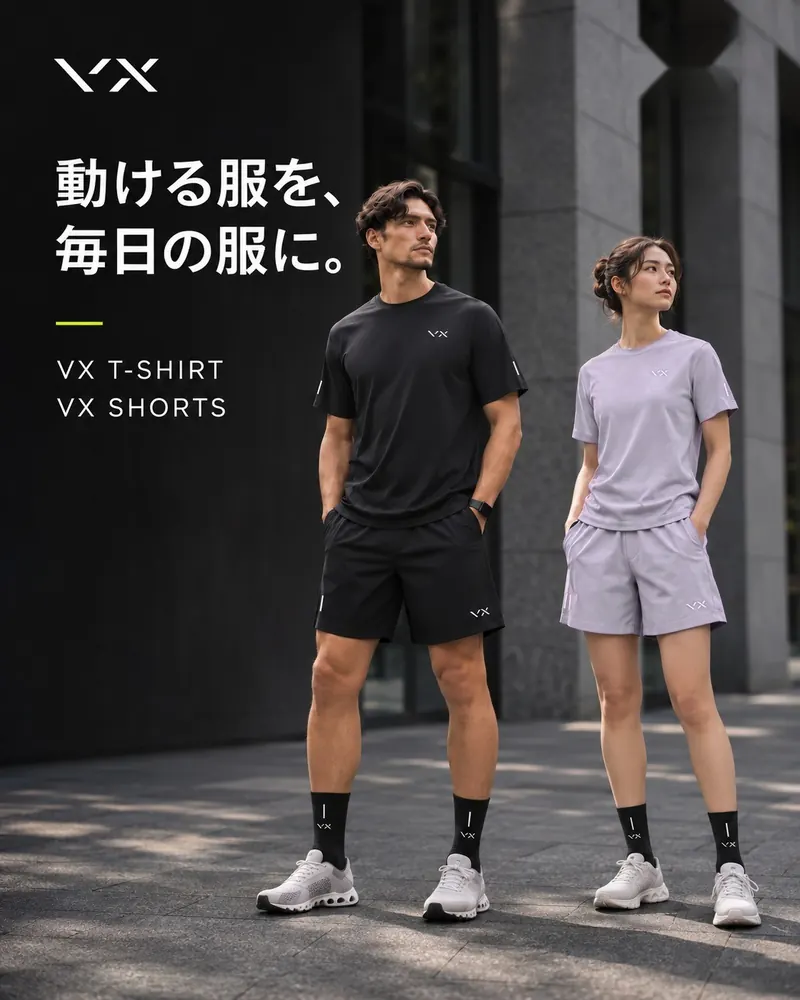
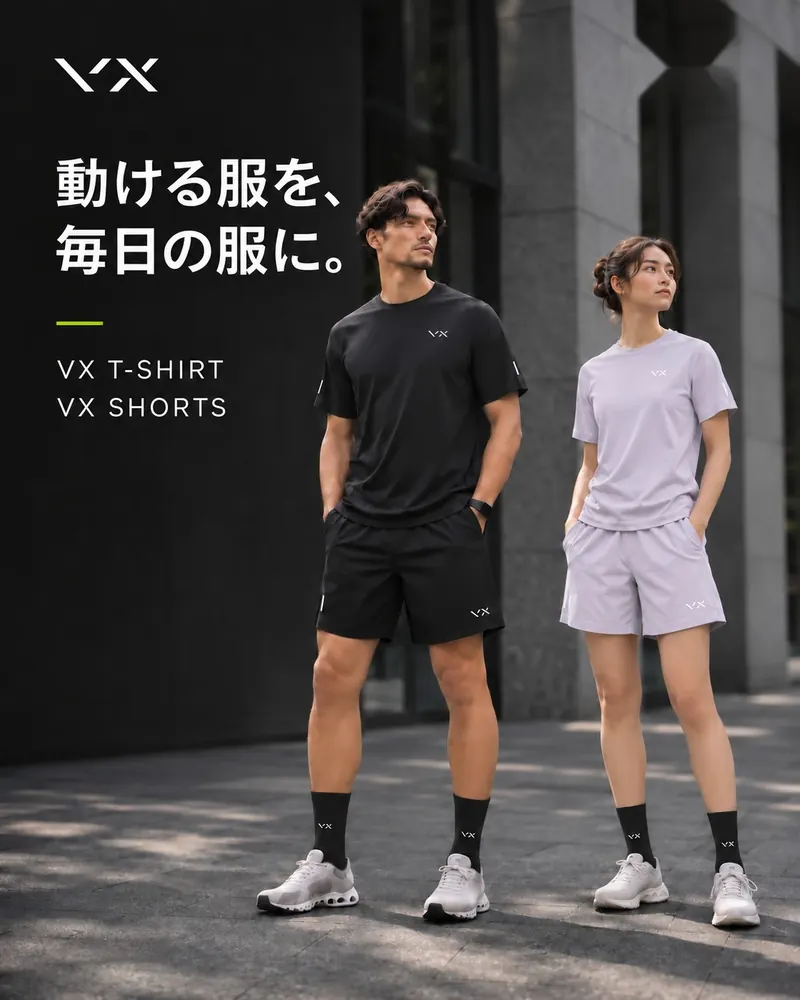
APPAREL：Lookbookの着用写真を、ChatGPTで作り直した Mist Lavender 版に差し替え
Claude-Session: https://claude.ai/code/session_01Bte9gbwF5fwVv2ctFpWhom

diff --git a/en/apparel.html b/en/apparel.html
@@ -33,7 +33,7 @@
 <link rel="preconnect" href="https://fonts.gstatic.com" crossorigin="">
 <link rel="preload" as="style" href="https://fonts.googleapis.com/css2?family=Archivo:wdth,wght@62..125,300;62..125,400;62..125,500;62..125,600&amp;family=Noto+Sans+JP:wght@400;500;700&amp;display=swap" onload="this.onload=null;this.rel='stylesheet'">
 <noscript><link rel="stylesheet" href="https://fonts.googleapis.com/css2?family=Archivo:wdth,wght@62..125,300;62..125,400;62..125,500;62..125,600&family=Noto+Sans+JP:wght@400;500;700&display=swap"></noscript>
-<link rel="stylesheet" href="../assets/site.css?v=1795520211">
+<link rel="stylesheet" href="../assets/site.css?v=1795520668">
 </head>
 <body>
 <header class="site-header">
@@ -83,7 +83,7 @@
           <li><img src="../assets/lookbook-02.webp" srcset="../assets/lookbook-02-800.webp 800w, ../assets/lookbook-02.webp 1122w" sizes="(max-width: 480px) 100vw, 480px" alt="VXの素材：通気性のあるメッシュ、撥水、動きやすいスリットとリフレクティブ" fetchpriority="high" width="1122" height="1402"></li>
           <li><img src="../assets/apparel/detail-reflective.webp" srcset="../assets/apparel/detail-reflective-800.webp 800w, ../assets/apparel/detail-reflective.webp 1092w" sizes="(max-width: 480px) 100vw, 480px" alt="袖のリフレクティブ。夜でも光る反射ライン" fetchpriority="high" width="1092" height="1440"></li>
           <li><img src="../assets/apparel/detail-slit.webp" srcset="../assets/apparel/detail-slit-800.webp 800w, ../assets/apparel/detail-slit.webp 1092w" sizes="(max-width: 480px) 100vw, 480px" alt="Tシャツの裾のサイドスリット" fetchpriority="high" width="1092" height="1440"></li>
-          <li><img src="../assets/apparel/detail-waist.webp" srcset="../assets/apparel/detail-waist-800.webp 800w, ../assets/apparel/detail-waist.webp 1092w" sizes="(max-width: 480px) 100vw, 480px" alt="ショーツのウエストとサイドポケット" loading="lazy" width="1092" height="1440"></li>
+          <li><img src="../assets/apparel/detail-waist.webp" srcset="../assets/apparel/detail-waist-800.webp 800w, ../assets/apparel/detail-waist.webp 1092w" sizes="(max-width: 480px) 100vw, 480px" alt="ショーツのウエストとサイドポケット" fetchpriority="high" width="1092" height="1440"></li>
           <li><img src="../assets/lookbook-04.webp" srcset="../assets/lookbook-04-800.webp 800w, ../assets/lookbook-04.webp 1122w" sizes="(max-width: 480px) 100vw, 480px" alt="価格表：VX T-SHIRT ¥11,000、VX SHORTS ¥8,800、VX SOCKS ¥2,200、3点セット ¥19,800（税込）" fetchpriority="high" width="1122" height="1402"></li>
         </ul>
         <p class="lb-hint">Swipe to see more / Images are for illustration</p>
@@ -219,7 +219,7 @@
   update();
 })();
 </script>
-<script src="../assets/i18n.js?v=1795520211"></script>
+<script src="../assets/i18n.js?v=1795520668"></script>
 
 
 </body></html>

diff --git a/zh/apparel.html b/zh/apparel.html
@@ -33,7 +33,7 @@
 <link rel="preconnect" href="https://fonts.gstatic.com" crossorigin="">
 <link rel="preload" as="style" href="https://fonts.googleapis.com/css2?family=Archivo:wdth,wght@62..125,300;62..125,400;62..125,500;62..125,600&amp;family=Noto+Sans+JP:wght@400;500;700&amp;display=swap" onload="this.onload=null;this.rel='stylesheet'">
 <noscript><link rel="stylesheet" href="https://fonts.googleapis.com/css2?family=Archivo:wdth,wght@62..125,300;62..125,400;62..125,500;62..125,600&family=Noto+Sans+JP:wght@400;500;700&display=swap"></noscript>
-<link rel="stylesheet" href="../assets/site.css?v=1795520211">
+<link rel="stylesheet" href="../assets/site.css?v=1795520668">
 </head>
 <body>
 <header class="site-header">
@@ -83,7 +83,7 @@
           <li><img src="../assets/lookbook-02.webp" srcset="../assets/lookbook-02-800.webp 800w, ../assets/lookbook-02.webp 1122w" sizes="(max-width: 480px) 100vw, 480px" alt="VXの素材：通気性のあるメッシュ、撥水、動きやすいスリットとリフレクティブ" fetchpriority="high" width="1122" height="1402"></li>
           <li><img src="../assets/apparel/detail-reflective.webp" srcset="../assets/apparel/detail-reflective-800.webp 800w, ../assets/apparel/detail-reflective.webp 1092w" sizes="(max-width: 480px) 100vw, 480px" alt="袖のリフレクティブ。夜でも光る反射ライン" fetchpriority="high" width="1092" height="1440"></li>
           <li><img src="../assets/apparel/detail-slit.webp" srcset="../assets/apparel/detail-slit-800.webp 800w, ../assets/apparel/detail-slit.webp 1092w" sizes="(max-width: 480px) 100vw, 480px" alt="Tシャツの裾のサイドスリット" fetchpriority="high" width="1092" height="1440"></li>
-          <li><img src="../assets/apparel/detail-waist.webp" srcset="../assets/apparel/detail-waist-800.webp 800w, ../assets/apparel/detail-waist.webp 1092w" sizes="(max-width: 480px) 100vw, 480px" alt="ショーツのウエストとサイドポケット" loading="lazy" width="1092" height="1440"></li>
+          <li><img src="../assets/apparel/detail-waist.webp" srcset="../assets/apparel/detail-waist-800.webp 800w, ../assets/apparel/detail-waist.webp 1092w" sizes="(max-width: 480px) 100vw, 480px" alt="ショーツのウエストとサイドポケット" fetchpriority="high" width="1092" height="1440"></li>
           <li><img src="../assets/lookbook-04.webp" srcset="../assets/lookbook-04-800.webp 800w, ../assets/lookbook-04.webp 1122w" sizes="(max-width: 480px) 100vw, 480px" alt="価格表：VX T-SHIRT ¥11,000、VX SHORTS ¥8,800、VX SOCKS ¥2,200、3点セット ¥19,800（税込）" fetchpriority="high" width="1122" height="1402"></li>
         </ul>
         <p class="lb-hint">滑动查看更多 ／ ※图片仅供参考</p>
@@ -219,7 +219,7 @@
   update();
 })();
 </script>
-<script src="../assets/i18n.js?v=1795520211"></script>
+<script src="../assets/i18n.js?v=1795520668"></script>
 
 
 </body></html>

diff --git a/apparel.html b/apparel.html
@@ -34,7 +34,7 @@
 <link rel="preconnect" href="https://fonts.gstatic.com" crossorigin>
 <link rel="preload" as="style" href="https://fonts.googleapis.com/css2?family=Archivo:wdth,wght@62..125,300;62..125,400;62..125,500;62..125,600&family=Noto+Sans+JP:wght@400;500;700&display=swap" onload="this.onload=null;this.rel='stylesheet'">
 <noscript><link rel="stylesheet" href="https://fonts.googleapis.com/css2?family=Archivo:wdth,wght@62..125,300;62..125,400;62..125,500;62..125,600&family=Noto+Sans+JP:wght@400;500;700&display=swap"></noscript>
-<link rel="stylesheet" href="assets/site.css?v=1795520211">
+<link rel="stylesheet" href="assets/site.css?v=1795520668">
 </head>
 <body>
 <header class="site-header">
@@ -84,7 +84,7 @@
           <li><img src="assets/lookbook-02.webp" srcset="assets/lookbook-02-800.webp 800w, assets/lookbook-02.webp 1122w" sizes="(max-width: 480px) 100vw, 480px" alt="VXの素材：通気性のあるメッシュ、撥水、動きやすいスリットとリフレクティブ" fetchpriority="high" width="1122" height="1402"></li>
           <li><img src="assets/apparel/detail-reflective.webp" srcset="assets/apparel/detail-reflective-800.webp 800w, assets/apparel/detail-reflective.webp 1092w" sizes="(max-width: 480px) 100vw, 480px" alt="袖のリフレクティブ。夜でも光る反射ライン" fetchpriority="high" width="1092" height="1440"></li>
           <li><img src="assets/apparel/detail-slit.webp" srcset="assets/apparel/detail-slit-800.webp 800w, assets/apparel/detail-slit.webp 1092w" sizes="(max-width: 480px) 100vw, 480px" alt="Tシャツの裾のサイドスリット" fetchpriority="high" width="1092" height="1440"></li>
-          <li><img src="assets/apparel/detail-waist.webp" srcset="assets/apparel/detail-waist-800.webp 800w, assets/apparel/detail-waist.webp 1092w" sizes="(max-width: 480px) 100vw, 480px" alt="ショーツのウエストとサイドポケット" loading="lazy" width="1092" height="1440"></li>
+          <li><img src="assets/apparel/detail-waist.webp" srcset="assets/apparel/detail-waist-800.webp 800w, assets/apparel/detail-waist.webp 1092w" sizes="(max-width: 480px) 100vw, 480px" alt="ショーツのウエストとサイドポケット" fetchpriority="high" width="1092" height="1440"></li>
           <li><img src="assets/lookbook-04.webp" srcset="assets/lookbook-04-800.webp 800w, assets/lookbook-04.webp 1122w" sizes="(max-width: 480px) 100vw, 480px" alt="価格表：VX T-SHIRT ¥11,000、VX SHORTS ¥8,800、VX SOCKS ¥2,200、3点セット ¥19,800（税込）" fetchpriority="high" width="1122" height="1402"></li>
         </ul>
         <p class="lb-hint">スワイプして見る ／ ※画像はイメージです</p>
@@ -220,6 +220,6 @@
   update();
 })();
 </script>
-<script src="assets/i18n.js?v=1795520211"></script>
+<script src="assets/i18n.js?v=1795520668"></script>
 </body>
 </html>

diff --git a/en/index.html b/en/index.html
@@ -35,7 +35,7 @@
 <link rel="preconnect" href="https://fonts.gstatic.com" crossorigin="">
 <link rel="preload" as="style" href="https://fonts.googleapis.com/css2?family=Archivo:wdth,wght@62..125,300;62..125,400;62..125,500;62..125,600&amp;family=Noto+Sans+JP:wght@400;500;700&amp;display=swap" onload="this.onload=null;this.rel='stylesheet'">
 <noscript><link rel="stylesheet" href="https://fonts.googleapis.com/css2?family=Archivo:wdth,wght@62..125,300;62..125,400;62..125,500;62..125,600&family=Noto+Sans+JP:wght@400;500;700&display=swap"></noscript>
-<link rel="stylesheet" href="../assets/site.css?v=1795520211">
+<link rel="stylesheet" href="../assets/site.css?v=1795520668">
 </head>
 <body>
 <header class="site-header">
@@ -250,7 +250,7 @@
   <a class="p" href="https://lin.ee/uKvQIEB" target="_blank" rel="noopener"><svg viewBox="0 0 24 24" fill="none" stroke="currentColor" stroke-width="1.8" aria-hidden="true"><path d="M12 4C7 4 3 7.2 3 11.2c0 3.6 3.2 6.6 7.5 7.1-.2.9-.6 2.1-.7 2.4 0 .3.3.5.6.3 1.2-.8 4.3-2.8 5.9-4.3 2.3-1.3 3.7-3.3 3.7-5.5C21 7.2 17 4 12 4Z"></path></svg>Contact us on LINE</a>
 </div>
 
-<script src="../assets/i18n.js?v=1795520211"></script>
+<script src="../assets/i18n.js?v=1795520668"></script>
 
 
 </body></html>

diff --git a/zh/index.html b/zh/index.html
@@ -35,7 +35,7 @@
 <link rel="preconnect" href="https://fonts.gstatic.com" crossorigin="">
 <link rel="preload" as="style" href="https://fonts.googleapis.com/css2?family=Archivo:wdth,wght@62..125,300;62..125,400;62..125,500;62..125,600&amp;family=Noto+Sans+JP:wght@400;500;700&amp;display=swap" onload="this.onload=null;this.rel='stylesheet'">
 <noscript><link rel="stylesheet" href="https://fonts.googleapis.com/css2?family=Archivo:wdth,wght@62..125,300;62..125,400;62..125,500;62..125,600&family=Noto+Sans+JP:wght@400;500;700&display=swap"></noscript>
-<link rel="stylesheet" href="../assets/site.css?v=1795520211">
+<link rel="stylesheet" href="../assets/site.css?v=1795520668">
 </head>
 <body>
 <header class="site-header">
@@ -250,7 +250,7 @@
   <a class="p" href="https://lin.ee/uKvQIEB" target="_blank" rel="noopener"><svg viewBox="0 0 24 24" fill="none" stroke="currentColor" stroke-width="1.8" aria-hidden="true"><path d="M12 4C7 4 3 7.2 3 11.2c0 3.6 3.2 6.6 7.5 7.1-.2.9-.6 2.1-.7 2.4 0 .3.3.5.6.3 1.2-.8 4.3-2.8 5.9-4.3 2.3-1.3 3.7-3.3 3.7-5.5C21 7.2 17 4 12 4Z"></path></svg>通过LINE咨询</a>
 </div>
 
-<script src="../assets/i18n.js?v=1795520211"></script>
+<script src="../assets/i18n.js?v=1795520668"></script>
 
 
 </body></html>

diff --git a/index.html b/index.html
@@ -36,7 +36,7 @@
 <link rel="preconnect" href="https://fonts.gstatic.com" crossorigin>
 <link rel="preload" as="style" href="https://fonts.googleapis.com/css2?family=Archivo:wdth,wght@62..125,300;62..125,400;62..125,500;62..125,600&family=Noto+Sans+JP:wght@400;500;700&display=swap" onload="this.onload=null;this.rel='stylesheet'">
 <noscript><link rel="stylesheet" href="https://fonts.googleapis.com/css2?family=Archivo:wdth,wght@62..125,300;62..125,400;62..125,500;62..125,600&family=Noto+Sans+JP:wght@400;500;700&display=swap"></noscript>
-<link rel="stylesheet" href="assets/site.css?v=1795520211">
+<link rel="stylesheet" href="assets/site.css?v=1795520668">
 </head>
 <body>
 <header class="site-header">
@@ -251,6 +251,6 @@
   <a class="p" href="https://lin.ee/uKvQIEB" target="_blank" rel="noopener"><svg viewBox="0 0 24 24" fill="none" stroke="currentColor" stroke-width="1.8" aria-hidden="true"><path d="M12 4C7 4 3 7.2 3 11.2c0 3.6 3.2 6.6 7.5 7.1-.2.9-.6 2.1-.7 2.4 0 .3.3.5.6.3 1.2-.8 4.3-2.8 5.9-4.3 2.3-1.3 3.7-3.3 3.7-5.5C21 7.2 17 4 12 4Z"/></svg>LINEでお問い合わせ</a>
 </div>
 
-<script src="assets/i18n.js?v=1795520211"></script>
+<script src="assets/i18n.js?v=1795520668"></script>
 </body>
 </html>

diff --git a/404.html b/404.html
@@ -17,7 +17,7 @@
 <link rel="preconnect" href="https://fonts.gstatic.com" crossorigin>
 <link rel="preload" as="style" href="https://fonts.googleapis.com/css2?family=Archivo:wdth,wght@62..125,300;62..125,400;62..125,500;62..125,600&family=Noto+Sans+JP:wght@400;500;700&display=swap" onload="this.onload=null;this.rel='stylesheet'">
 <noscript><link rel="stylesheet" href="https://fonts.googleapis.com/css2?family=Archivo:wdth,wght@62..125,300;62..125,400;62..125,500;62..125,600&family=Noto+Sans+JP:wght@400;500;700&display=swap"></noscript>
-<link rel="stylesheet" href="/vx-sports-academy/assets/site.css?v=1795520211">
+<link rel="stylesheet" href="/vx-sports-academy/assets/site.css?v=1795520668">
 </head>
 <body>
 <header class="site-header">
@@ -75,6 +75,6 @@
 </footer>
 
 
-<script src="/vx-sports-academy/assets/i18n.js?v=1795520211"></script>
+<script src="/vx-sports-academy/assets/i18n.js?v=1795520668"></script>
 </body>
 </html>

diff --git a/zh/soccer.html b/zh/soccer.html
@@ -33,7 +33,7 @@
 <link rel="preconnect" href="https://fonts.gstatic.com" crossorigin="">
 <link rel="preload" as="style" href="https://fonts.googleapis.com/css2?family=Archivo:wdth,wght@62..125,300;62..125,400;62..125,500;62..125,600&amp;family=Noto+Sans+JP:wght@400;500;700&amp;display=swap" onload="this.onload=null;this.rel='stylesheet'">
 <noscript><link rel="stylesheet" href="https://fonts.googleapis.com/css2?family=Archivo:wdth,wght@62..125,300;62..125,400;62..125,500;62..125,600&family=Noto+Sans+JP:wght@400;500;700&display=swap"></noscript>
-<link rel="stylesheet" href="../assets/site.css?v=1795520211">
+<link rel="stylesheet" href="../assets/site.css?v=1795520668">
 </head>
 <body>
 <header class="site-header">
@@ -167,7 +167,7 @@
   <a class="s" href="#football-kit">队服</a>
 </div>
 
-<script src="../assets/i18n.js?v=1795520211"></script>
+<script src="../assets/i18n.js?v=1795520668"></script>
 
 
 </body></html>

diff --git a/en/gym.html b/en/gym.html
@@ -33,7 +33,7 @@
 <link rel="preconnect" href="https://fonts.gstatic.com" crossorigin="">
 <link rel="preload" as="style" href="https://fonts.googleapis.com/css2?family=Archivo:wdth,wght@62..125,300;62..125,400;62..125,500;62..125,600&amp;family=Noto+Sans+JP:wght@400;500;700&amp;display=swap" onload="this.onload=null;this.rel='stylesheet'">
 <noscript><link rel="stylesheet" href="https://fonts.googleapis.com/css2?family=Archivo:wdth,wght@62..125,300;62..125,400;62..125,500;62..125,600&family=Noto+Sans+JP:wght@400;500;700&display=swap"></noscript>
-<link rel="stylesheet" href="../assets/site.css?v=1795520211">
+<link rel="stylesheet" href="../assets/site.css?v=1795520668">
 </head>
 <body>
 <header class="site-header">
@@ -155,7 +155,7 @@
   <a class="s" href="#gym-price">Pricing</a>
 </div>
 
-<script src="../assets/i18n.js?v=1795520211"></script>
+<script src="../assets/i18n.js?v=1795520668"></script>
 
 
 </body></html>

diff --git a/en/soccer.html b/en/soccer.html
@@ -33,7 +33,7 @@
 <link rel="preconnect" href="https://fonts.gstatic.com" crossorigin="">
 <link rel="preload" as="style" href="https://fonts.googleapis.com/css2?family=Archivo:wdth,wght@62..125,300;62..125,400;62..125,500;62..125,600&amp;family=Noto+Sans+JP:wght@400;500;700&amp;display=swap" onload="this.onload=null;this.rel='stylesheet'">
 <noscript><link rel="stylesheet" href="https://fonts.googleapis.com/css2?family=Archivo:wdth,wght@62..125,300;62..125,400;62..125,500;62..125,600&family=Noto+Sans+JP:wght@400;500;700&display=swap"></noscript>
-<link rel="stylesheet" href="../assets/site.css?v=1795520211">
+<link rel="stylesheet" href="../assets/site.css?v=1795520668">
 </head>
 <body>
 <header class="site-header">
@@ -167,7 +167,7 @@
   <a class="s" href="#football-kit">Kit</a>
 </div>
 
-<script src="../assets/i18n.js?v=1795520211"></script>
+<script src="../assets/i18n.js?v=1795520668"></script>
 
 
 </body></html>

diff --git a/zh/gym.html b/zh/gym.html
@@ -33,7 +33,7 @@
 <link rel="preconnect" href="https://fonts.gstatic.com" crossorigin="">
 <link rel="preload" as="style" href="https://fonts.googleapis.com/css2?family=Archivo:wdth,wght@62..125,300;62..125,400;62..125,500;62..125,600&amp;family=Noto+Sans+JP:wght@400;500;700&amp;display=swap" onload="this.onload=null;this.rel='stylesheet'">
 <noscript><link rel="stylesheet" href="https://fonts.googleapis.com/css2?family=Archivo:wdth,wght@62..125,300;62..125,400;62..125,500;62..125,600&family=Noto+Sans+JP:wght@400;500;700&display=swap"></noscript>
-<link rel="stylesheet" href="../assets/site.css?v=1795520211">
+<link rel="stylesheet" href="../assets/site.css?v=1795520668">
 </head>
 <body>
 <header class="site-header">
@@ -155,7 +155,7 @@
   <a class="s" href="#gym-price">价格</a>
 </div>
 
-<script src="../assets/i18n.js?v=1795520211"></script>
+<script src="../assets/i18n.js?v=1795520668"></script>
 
 
 </body></html>

diff --git a/en/personal.html b/en/personal.html
@@ -33,7 +33,7 @@
 <link rel="preconnect" href="https://fonts.gstatic.com" crossorigin="">
 <link rel="preload" as="style" href="https://fonts.googleapis.com/css2?family=Archivo:wdth,wght@62..125,300;62..125,400;62..125,500;62..125,600&amp;family=Noto+Sans+JP:wght@400;500;700&amp;display=swap" onload="this.onload=null;this.rel='stylesheet'">
 <noscript><link rel="stylesheet" href="https://fonts.googleapis.com/css2?family=Archivo:wdth,wght@62..125,300;62..125,400;62..125,500;62..125,600&family=Noto+Sans+JP:wght@400;500;700&display=swap"></noscript>
-<link rel="stylesheet" href="../assets/site.css?v=1795520211">
+<link rel="stylesheet" href="../assets/site.css?v=1795520668">
 </head>
 <body>
 <header class="site-header">
@@ -182,7 +182,7 @@
   <a class="s" href="#price">Pricing</a>
 </div>
 
-<script src="../assets/i18n.js?v=1795520211"></script>
+<script src="../assets/i18n.js?v=1795520668"></script>
 
 
 </body></html>
